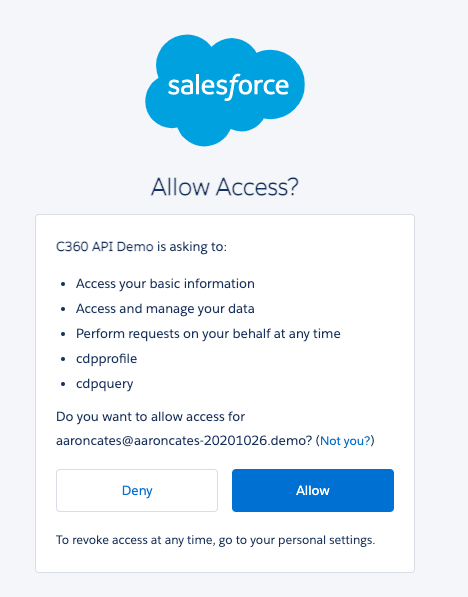
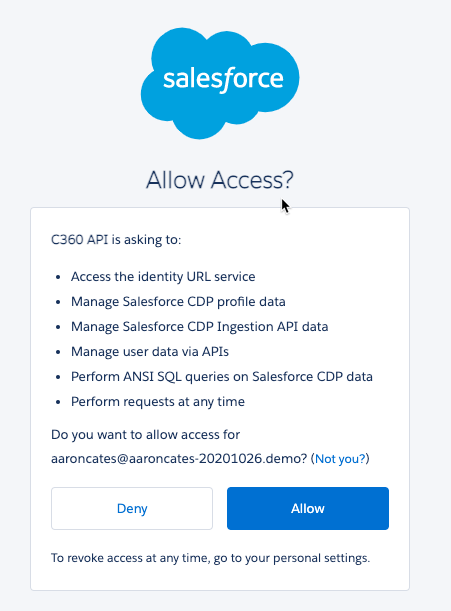
align documentation to CDP branding

Changed region(s): [[0.0621, 0.3618, 0.8692, 0.9648], [0.3104, 0.0302, 0.6829, 0.2412], [0.3104, 0.2714, 0.6519, 0.3618]]

diff --git a/install-the-collection.md b/install-the-collection.md
@@ -41,27 +41,23 @@ Not currently supported. Please use the desktop application.
 
 This collection utilizes Salesforce's server to server [JWT bearer flow](https://help.salesforce.com/articleView?id=remoteaccess_oauth_jwt_flow.htm&type=5) for acquiring an access token. This portion of the setup will walk you through setting up the connected app.
 
-1. Login to Salesforce → Setup and Search **“OAuth Custom Scopes”**
-2. Select **“New Custom Scope”**
-    1. Name: cdpprofile **Important: ensure name and casing is identical**
-    2. Description: C360 Profile API
-    3. Select Save & New
-    4. Name: cdpquery **Important: ensure name and casing is identical**
-    5. Description: C360 Query API
-    6. Select Save
-3. In the Setup’s Quick Find search "**App Manager**"
-4. Select **“New Connected App”**
-    1. Connected App Name: C360 API
-    2. API Name: C360_API (or whatever default value is prepopulated)
+1. Login to Salesforce → Setup and Search "**App Manager**"
+2. In the Setup’s Quick Find search "**App Manager**"
+3. Select **“New Connected App”**
+    1. Connected App Name: CDP API
+    2. API Name: CDP_API (or whatever default value is prepopulated)
     3. Contact Email: Your email address
     4. Under API Heading, check the box for **“Enable OAuth Settings”**
     5. Callback URL: https://oauth.pstmn.io/v1/callback
     6. Select the checkbox for **“Use digital signatures”**
     7. Select **“Choose File”** and select the **host.crt** file created in [Create Private Public Key Pair](#create-private-public-key-pair) section
     8. Under **“Selected OAuth Scopes”** move the following from the “Available OAuth Scopes” to “Selected OAuth Scopes”
-        1. Access and manage your data (api)
-        2. Perform requests on your behalf at any time (refresh_token, offline_access)
-        3. Note: feel free to select others if needed.
+        1. Manage user data via APIs (api)
+        2. Perform requests at any time (refresh_token, offline_access)
+        3. Perform ANSI SQL queries on Salesforce CDP data (cdp_query_api)
+        4. Manage Salesforce CDP profile data (cdp_profile_api)
+        5. Manage Salesforce CDP Ingestion API data (cdp_ingest_api)
+        6. Note: feel free to select others if needed.
 
         > Your screen should look similar to this
 
@@ -75,10 +71,6 @@ This collection utilizes Salesforce's server to server [JWT bearer flow](https:/
     1. Select **“Edit Policies”**
     2. Change **“IP Relaxation”** to **“Relax IP restrictions”**
     3. Select **Save**
-    4. Scroll to the bottom on the page and select **“Manage OAuth Custom Scopes”**
-    5. Check the boxes for **“cdpprofile”** and **“cdpquery”** custom scopes created in step 2 of this section 
-        ![Connected App Setup 3 Screenshot](images/connected-app-setup-3.png)
-    6. **Save**
 
 ## App Authorization
 
@@ -87,7 +79,7 @@ At this point your connected app has been configured however there is a ***_one 
 The URL format will look like:
 
 ```
-<YOUR_ORG_URL>/services/oauth2/authorize?response_type=code&client_id=<YOUR_CONSUMER_KEY>&scope=api refresh_token cdpprofile cdpquery&redirect_uri=https://oauth.pstmn.io/v1/callback
+<YOUR_ORG_URL>/services/oauth2/authorize?response_type=code&client_id=<YOUR_CONSUMER_KEY>&scope=api refresh_token cdp_profile_api cdp_query_api cdp_ingest_api&redirect_uri=https://oauth.pstmn.io/v1/callback
 ```
 >Notice the scope parameter in the above URL. ***It’s important that you select all the required custom CDP scopes in this request***. All further JWT bearer flow requests will honor ONLY these scopes
 
@@ -98,7 +90,7 @@ The URL format will look like:
 **YOUR_CONSUMER_KEY** is the consumer key noted in step 4.x above.
 
 **Example URL:**
->https://aaroncates-20214005-demo.lightning.force.com/services/oauth2/authorize?response_type=code&client_id=asdlfjasldfjsaldfjaslfds&scope=api%20refresh_token%20cdpprofile%20cdpquery&redirect_uri=https://oauth.pstmn.io/v1/callback
+>https://aaroncates-20214005-demo.lightning.force.com/services/oauth2/authorize?response_type=code&client_id=asdlfjasldfjsaldfjaslfds&scope=api%20refresh_token%20cdp_profile_api%20cdp_query_api%20cdp_ingest_api&redirect_uri=https://oauth.pstmn.io/v1/callback
 
 1. Paste that URL in a browser window. 
 2. This prompts a consent dialog asking permission for each of the scopes requested above.  Select **Allow** and you should be redirected back.
@@ -120,7 +112,7 @@ The URL format will look like:
 
     ![Searching for Salesforce screenshot](images/search-salesforce.png)
 
-3. Click the **Salesforce C360 APIs** tile
+3. Click the **Salesforce CDP APIs** tile
 4. Click **Fork**
 
     ![Fork button screenshot](images/fork-button.png)
@@ -133,7 +125,7 @@ The URL format will look like:
 
 The collection uses a series of collection variables to help streamline your calls. To successfully use the package it's important to be sure to update the collection variables.
 
-1. Click **Salesforce C360 APIs**
+1. Click **Salesforce CDP APIs**
 2. Open the **Variables** tab 
 3. Complete the following variables for your instance by placing the values in the **Current Value** column. 
 
@@ -156,7 +148,7 @@ The collection uses a series of collection variables to help streamline your cal
 
 **Direct APIs**
 
-The collection is built to leverage the [OAuth 2.0 JWT Bearer Flow for Server-to-Server Integration](https://help.salesforce.com/articleView?id=sf.remoteaccess_oauth_jwt_flow.htm&type=5) for Salesforce Core authorization. The core token is then exchanged with the off core server hosting C360 for a final authorization token.
+The collection is built to leverage the [OAuth 2.0 JWT Bearer Flow for Server-to-Server Integration](https://help.salesforce.com/articleView?id=sf.remoteaccess_oauth_jwt_flow.htm&type=5) for Salesforce Core authorization. The core token is then exchanged with the off core server hosting CDP for a final authorization token.
 
 ![Collection variables screenshot](images/authorization-flow.png)
 
@@ -165,27 +157,27 @@ The collection is built to leverage the [OAuth 2.0 JWT Bearer Flow for Server-to
 This is accomplished by using the collection variables defined in the [Configure the Collection](#configure-the-collection) section combined with a pre-request script. 
 
 The script creates six new variables that are used for token generation and should not be edited:
-* dne_c360TokenRefreshTime
-* dne_c360Assertion
-* dne_c360AuthToken
-* dne_c360InstanceUrl
-* dne_c360OffcoreToken
-* dne_c360OffcoreUrl
+* dne_cdpTokenRefreshTime
+* dne_cdpAssertion
+* dne_cdpAuthToken
+* dne_cdpInstanceUrl
+* dne_cdpOffcoreToken
+* dne_cdpOffcoreUrl
 
-The Marketing Cloud authorization tokens are valid for 2 hours therefore when a token is requested we create a new variable called **dne_c360TokenRefreshTime** that stores the time the token was generated. Each subsequent call will use this refresh time to determine if a new token should be requested.
+The Marketing Cloud authorization tokens are valid for 2 hours therefore when a token is requested we create a new variable called **dne_cdpTokenRefreshTime** that stores the time the token was generated. Each subsequent call will use this refresh time to determine if a new token should be requested.
 
-The token returned in the authorization call is stored as the collection variable **dne_c360OffcoreToken** and passed in the authorization header defined by a pre-request script at folder level.
+The token returned in the authorization call is stored as the collection variable **dne_cdpOffcoreToken** and passed in the authorization header defined by a pre-request script at folder level.
 
 **Connect APIs**
 
-The connect APIs leverage the traditional Salesforce authentication request process. You must first run the `Auth Request` first and we leverage Postman's tests functionality to parse the response body and set the variables for `dne_c360AuthToken` and `dne_c360InstanceUrl` that are used in the remaining Connect API calls.
+The connect APIs leverage the traditional Salesforce authentication request process. You must first run the `Auth Request` first and we leverage Postman's tests functionality to parse the response body and set the variables for `dne_cdpAuthToken` and `dne_cdpInstanceUrl` that are used in the remaining Connect API calls.
 
 ## Execute a Request
 
 1. Expand the collection and select the `Profile API -> Metadata - DMO` request
 1. Click `Send`
 
-At this point, if your environment is correctly set up, you should see a `200 OK` status. This means that you have successfully authenticated with Salesforce C360 and that you can now use the other collection’s requests.
+At this point, if your environment is correctly set up, you should see a `200 OK` status. This means that you have successfully authenticated with Salesforce CDP and that you can now use the other collection’s requests.
 
 ![DMO Metadata Success](images/metadata-dmo-200.png)
 

diff --git a/working-with-environments.md b/working-with-environments.md
@@ -1,8 +1,8 @@
 [Back to main page](README.md)
 
-# Working With Environments To Connect To Multiple C360 Instances
+# Working With Environments To Connect To Multiple CDP Instances
 
-While the variables are stored by default in the collection you can use Postman with [environments](#https://learning.postman.com/docs/sending-requests/managing-environments/) to work with multiple C360 instances in parallel.
+While the variables are stored by default in the collection you can use Postman with [environments](#https://learning.postman.com/docs/sending-requests/managing-environments/) to work with multiple CDP instances in parallel.
 
 The pre-request script has been written to determine if an environment has been selected. If it has been, the environment variables will be used for the authorization. By default in Postman the environment variables will supersede the collection level variables. 
 
@@ -16,12 +16,12 @@ The pre-request script has been written to determine if an environment has been 
 1. Using a browser, [sign in to Postman](https://identity.getpostman.com/login)
 2. Open the main collection with [this link](https://www.postman.com/salesforce-developers/workspace/salesforce-developers)
 3. Select the **Environments** tab (item A in following screenshot)
-4. Click **C360 Template Environment** (B)
+4. Click **CDP Template Environment** (B)
 5. Click on the “three dots” icon on the right (C) and select **Export** from the menu
 
     ![Export environment screenshot](images/export-env.png)
 
-    This downloads a `C360 Template Environment.postman_environment.json` file.
+    This downloads a `CDP Template Environment.postman_environment.json` file.
 
 6. Close the browser tab. We'll continue the installation on the Postman app
 7. In the Postman app, click **Import**
@@ -35,9 +35,9 @@ The pre-request script has been written to determine if an environment has been 
 
 	![Manage environment screenshot](images/manage-env.png)
 
-    This creates a `C360 Template Environment Copy` template.
+    This creates a `CDP Template Environment Copy` template.
 
-3. Click **C360 Template Environment Copy**
+3. Click **CDP Template Environment Copy**
 4. Rename the environment with something meaningful in relation with your Marketing Cloud instance (e.g.: “Playground 1”)
 5. Set values in the **CURRENT VALUE** column for the following variables. If you need instructions for getting these variables go to: [Configure the Collection](install-the-collection.md#configure-the-collection)
 

diff --git a/README.md b/README.md
@@ -2,9 +2,9 @@
 > ℹ   **April 2021 update:** This collection is maintained as a [Postman Public Workspace](https://www.postman.com/salesforce-developers). This makes it easier to install, update and contribute to the collection.<br/>
 This repository is dedicated to hosting the setup/contribution documentation and tracking issues.
 
-# C360 APIs for Postman
+# CDP APIs for Postman
 
-The current [Postman](https://www.postman.com) collection of consists of 25+ requests for the following Salesforce C360 APIs:
+The current [Postman](https://www.postman.com) collection of consists of 35+ requests for the following Salesforce CDP APIs:
 
 <table>
    <tr>
@@ -14,6 +14,7 @@ The current [Postman](https://www.postman.com) collection of consists of 25+ req
             <li>Query API</li>
             <li>Calculated Insights API</li>
             <li>Metadata</li>
+            <li>Ingestion</li>
          </ul>
       </td>
    </tr>
@@ -26,7 +27,7 @@ The collection is divided into 2 API types.
 
 Calling APIs directly using the non connect method typically offers the best performance. However, there are use cases where that doesn't make sense. Therefore, please be advised that calling CONNECT APIs directly does not conform to the same SLAs that calling the API directly offers.
 
-As new APIs are made available to the C360, the collection will be expanded to include those.
+As new APIs are made available to the CDP, the collection will be expanded to include those.
 
 ![Collection Overview](images/collection-overview.png)
 
@@ -44,7 +45,7 @@ Report issues and ask questions [here](https://github.com/salesforce-marketingcl
 
 ## Installation
 
-This collection currently only supports the **Postman desktop app** to connect to C360 with the Salesforce C360 APIs collection. 
+This collection currently only supports the **Postman desktop app** to connect to CDP with the Salesforce CDP APIs collection. 
 
 - [Install the Collection](install-the-collection.md)
 
@@ -54,5 +55,5 @@ We are evaluating the changes required to support the **Postman web app** as an 
 ## Additional Documentation
 
 - [Keeping the collection up to date](updating.md)
-- [Working With Environments To Connect To Multiple C360 Instances](working-with-environments.md)
+- [Working With Environments To Connect To Multiple CDP Instances](working-with-environments.md)
 - [Contributing](contributing.md)

diff --git a/contributing.md b/contributing.md
@@ -12,7 +12,7 @@
 
 ## About
 
-We’re adding new API requests to the collection over time, but you’re welcome to help. The ability to receive community contributions is a guiding principle for the Salesforce C360 API collection.
+We’re adding new API requests to the collection over time, but you’re welcome to help. The ability to receive community contributions is a guiding principle for the Salesforce CDP API collection.
 
 With **Public Workspaces**, you’ll find the same contribution flow that you’re already familiar with in git: forks, pull requests and pulls.
 
@@ -40,7 +40,7 @@ Follow these guidelines when contributing to the collection:
 - Use the API documented names
 - Add description from the documentation in the Postman descriptions
 - API calls should work and be parametrized using environment variables:
-  - Endpoints must use `https://{{dne_c360OffcoreUrl}}` as host
+  - Endpoints must use `https://{{dne_cdpOffcoreUrl}}` as host
 - Optional: provide examples
 
 ## Create a Public Team
@@ -65,7 +65,7 @@ Follow these guidelines when contributing to the collection:
 
 ## Move your Collection to your Public Workplace
 
-1. Move your mouse over your “Salesforce C360 APIs” forked collection, click on the “three dots” icon next to it and select **Share collection** from the menu
+1. Move your mouse over your “Salesforce CDP APIs” forked collection, click on the “three dots” icon next to it and select **Share collection** from the menu
 2. Select your newly created public workspace from the list
 3. Click **Share and Continue**
 4. Click **Close**
@@ -77,7 +77,7 @@ Use the **Workspace** menu to navigate to your public workspace and find your co
 Once you're ready to contribute, follow these steps:
 
 1. Navigate to the workspace that holds your collection
-2. Click on the “three dots” icon next to the “Salesforce C360 APIs” collection and select **Create Pull Request** from the menu
+2. Click on the “three dots” icon next to the “Salesforce CDP APIs” collection and select **Create Pull Request** from the menu
 
     ![Create Pull Request screenshot](images/create-pull-request.png)
 

diff --git a/updating.md b/updating.md
@@ -7,7 +7,7 @@ You can keep your copy of the collection up to date to benefit from new API requ
 ## Pull Changes
 
 1. Navigate to the workspace that holds your collection
-2. Click on the “three dots” icon next to the “Salesforce C360 APIs” collection and select **Merge Changes** from the menu
+2. Click on the “three dots” icon next to the “Salesforce CDP APIs” collection and select **Merge Changes** from the menu
 
     ![Merge changes screenshot](images/merge-changes.png)
 
